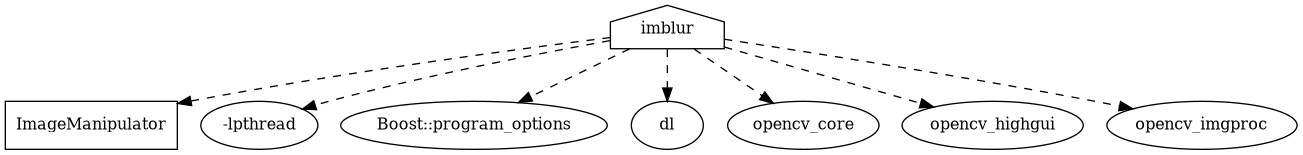
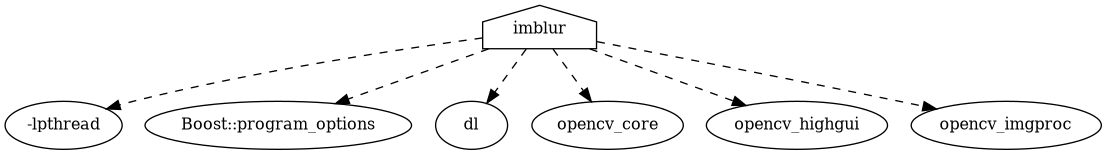
refactor

diff --git a/main.cpp b/main.cpp
@@ -1,7 +1,9 @@
 #include <iostream>
 #include <boost/stacktrace.hpp>
 #include <boost/program_options.hpp>
-#include "ImageManipulator.hpp"
+#include <opencv4/opencv2/imgproc.hpp>
+#include <opencv4/opencv2/core.hpp>
+#include <opencv4/opencv2/highgui.hpp>
 namespace po = boost::program_options; // see here for doc: https://www.boost.org/doc/libs/1_64_0/doc/html/program_options.html
 
 using namespace std;
@@ -29,7 +31,7 @@ int main(int ac, char*av[]){
     ("output-file,o",po::value<string>(&outfilename)->default_value("output.png"),"Output file name")
     ("loop,l",po::value<int>(&numLoops)->default_value(1),"number of times to run blurring option")
     ("blursize,s",po::value<int>(&blursize)->required(),"Blur size.")
-    ("quiet,q","Quiet (no print to stdout)")
+    ("quiet,q",po::value<bool>(&quietOutput)->default_value(false),"Quiet (no print to stdout)")
     ;
   po::variables_map vm;
 
@@ -47,11 +49,12 @@ int main(int ac, char*av[]){
     
 
 image = imread(filename, cv::ImreadModes::IMREAD_GRAYSCALE);
+  if (!quietOutput){
     cout<< "in filename: " << boost::lexical_cast<string>(filename)<<"\n";
       cout<< "out filename: " << boost::lexical_cast<string>(outfilename)<<"\n";
   cout<< "Blur size: " << boost::lexical_cast<string>(blursize)<<"\n";
     cout<< "num loops: " << boost::lexical_cast<string>(numLoops)<<"\n";
-  ImageManipulator imgObj{image, blursize, numLoops};
+  }
  auto ctr=0;
  Mat output_image_data;
 while (ctr < numLoops){
@@ -69,15 +72,15 @@ while (ctr < numLoops){
   }
   catch(cv::Exception& cvException){
     cerr << "Runtime Error: \n\n" << cvException.msg << "\n";
- cout << "ERROR CODE: " << cvException.code << "\n";
+ cerr << "ERROR CODE: " << cvException.code << "\n";
 
- cout << boost::stacktrace::stacktrace();
+ cerr << boost::stacktrace::stacktrace();
     return cvException.code;
   }
   catch(...){
     cerr << "EXCEPTION UNKOWN!!";
     
-    cout << boost::stacktrace::stacktrace();
+    cerr << boost::stacktrace::stacktrace();
     return 2;
   }
 return 0;
